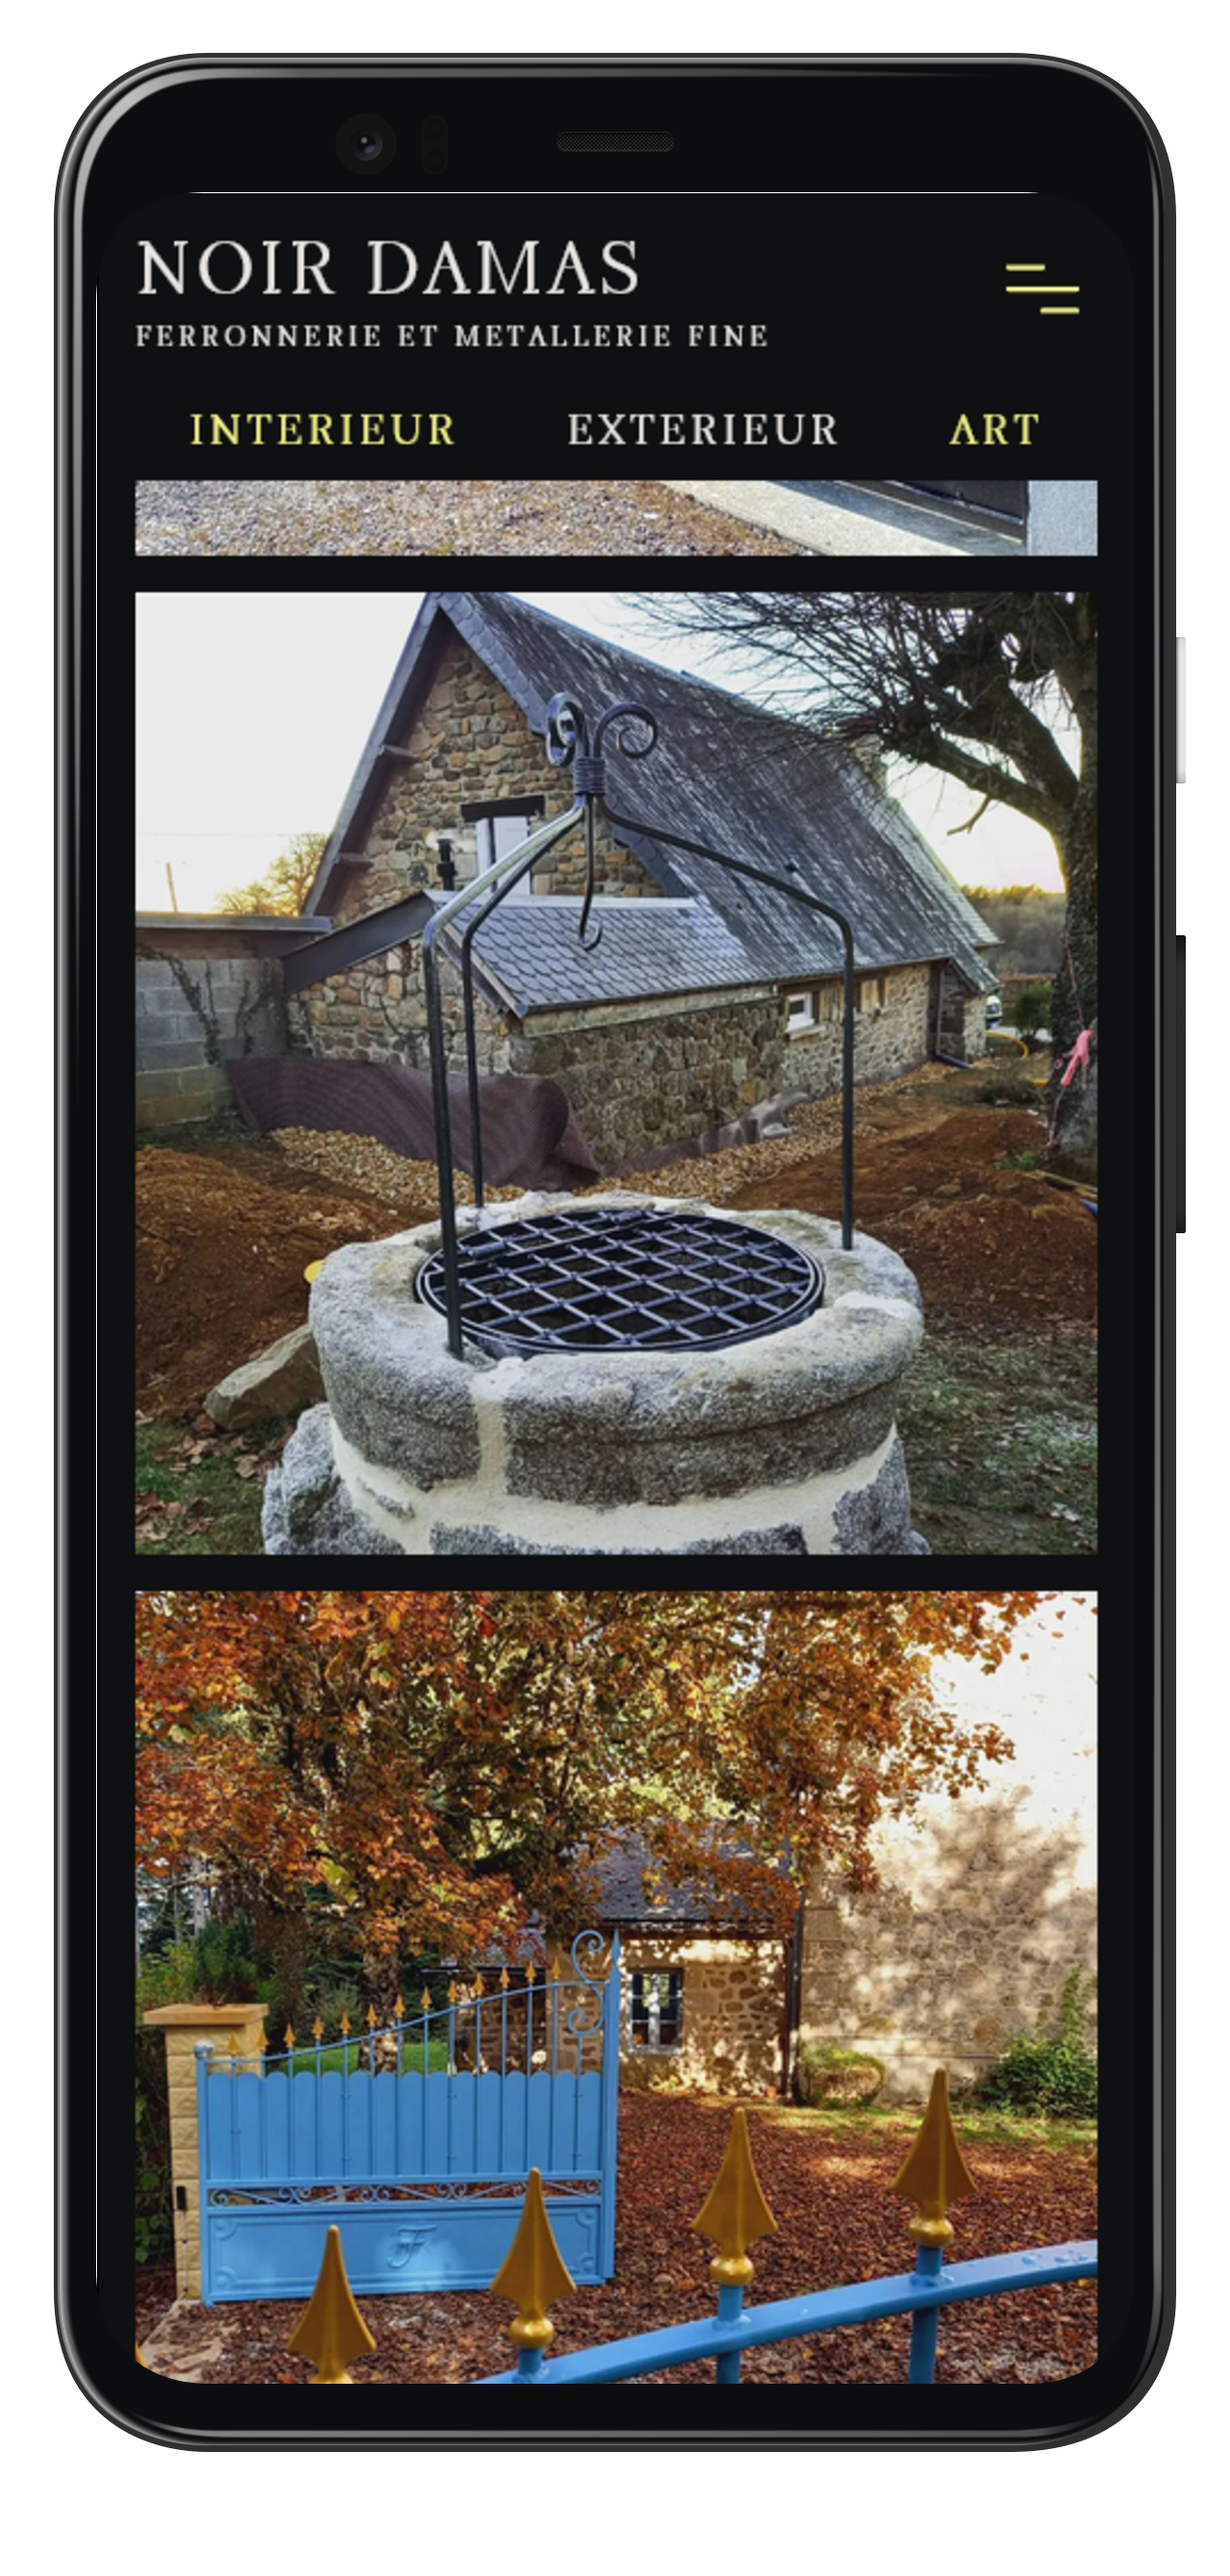
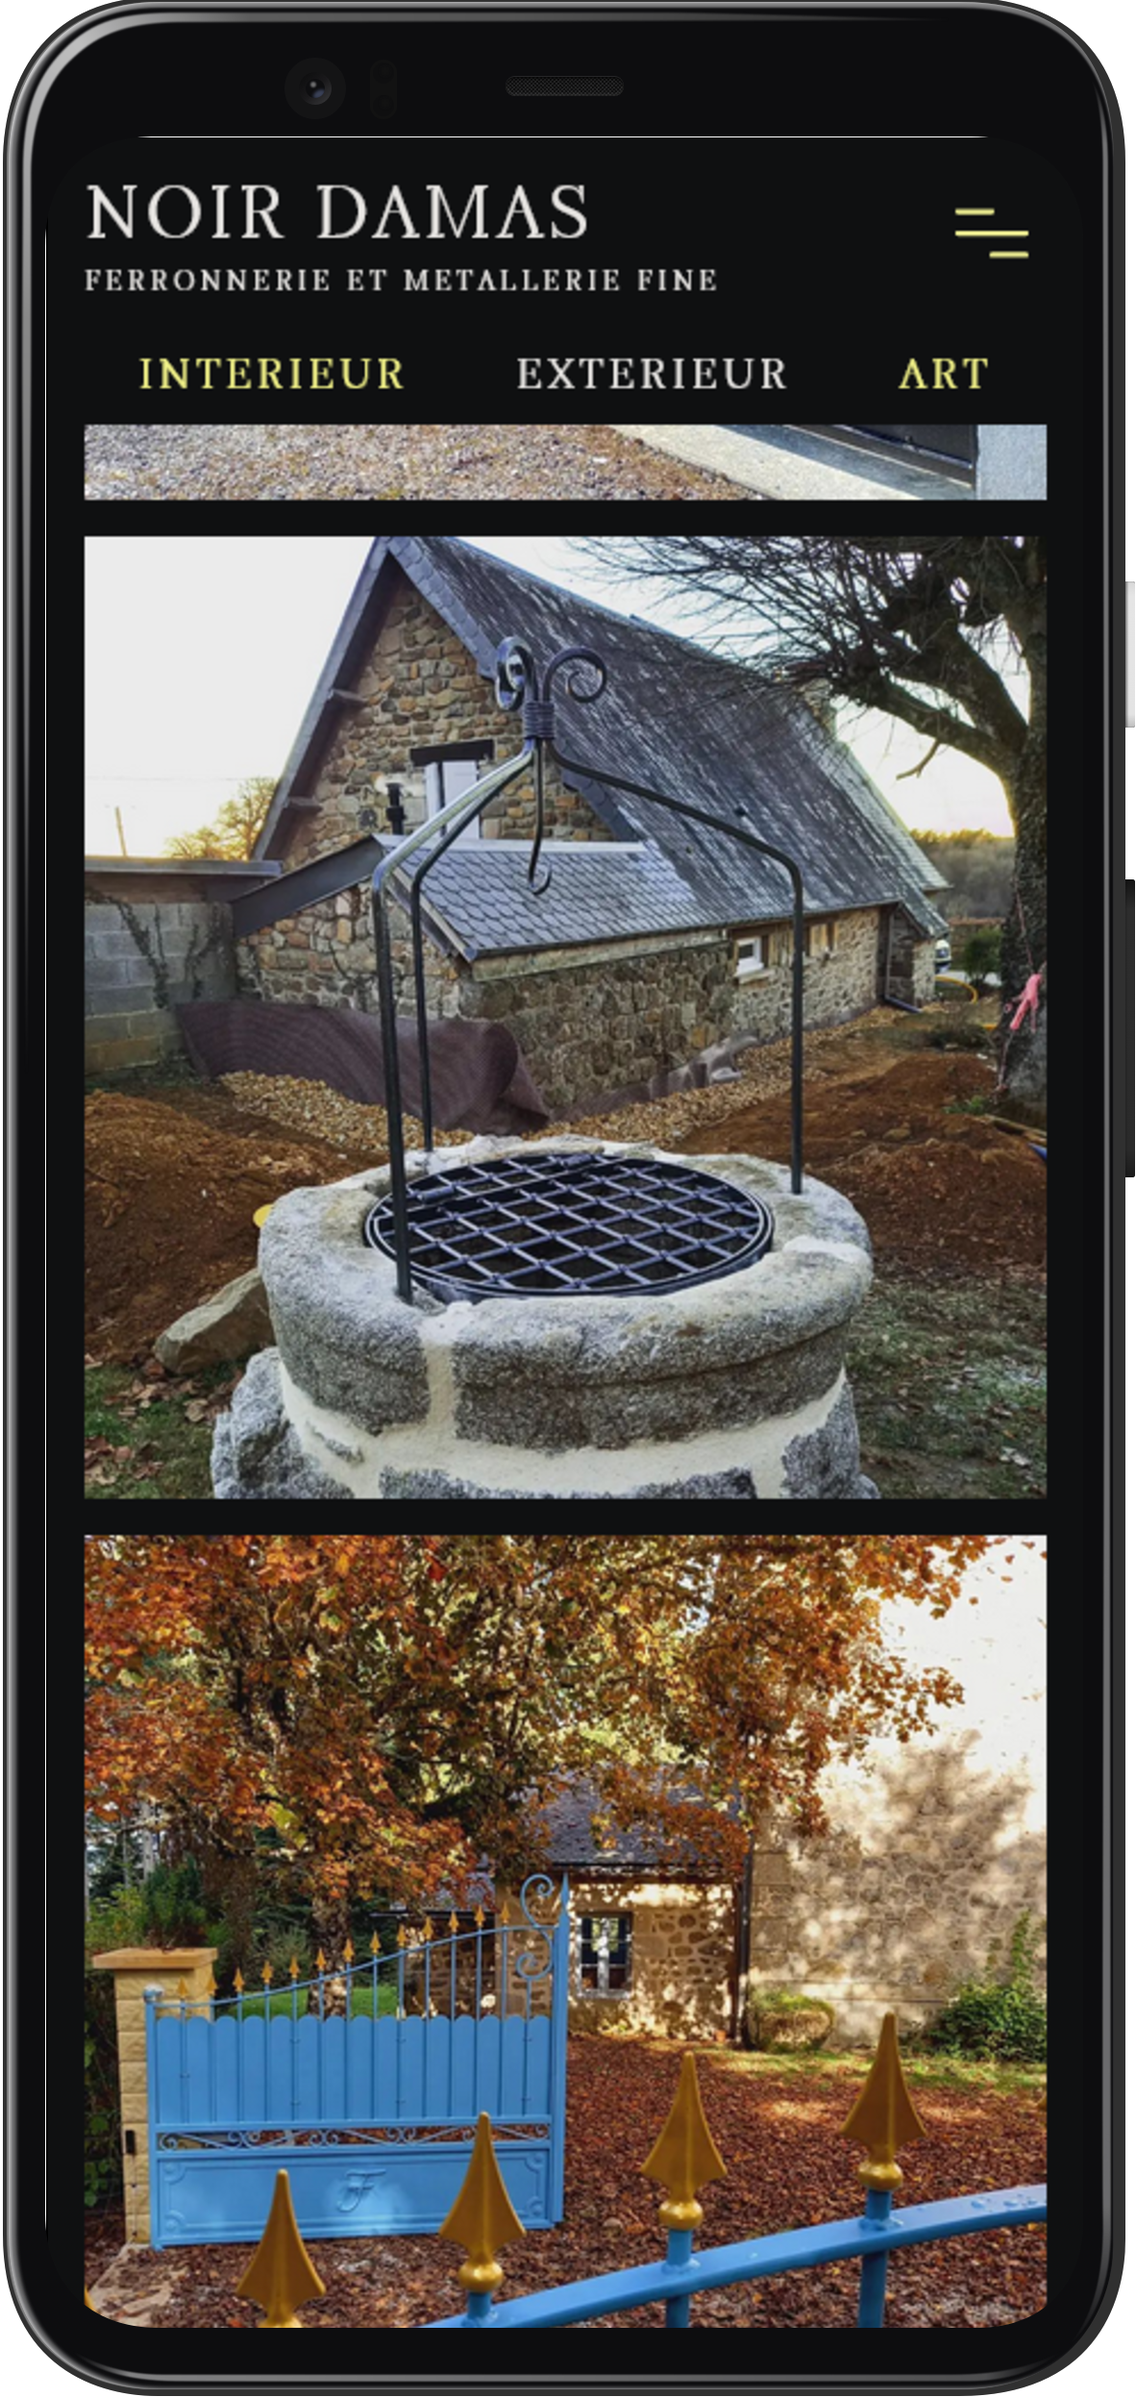
doing tablet and desktop responsive

diff --git a/src/styles/app.css b/src/styles/app.css
@@ -7,6 +7,10 @@
   box-sizing: border-box;
 }
 
+img {
+  display: block;
+}
+
 /* colors */
 
 :root {
@@ -30,6 +34,16 @@ body,
 .project--infos {
[1 lines of base64/hex data omitted]
   background-color: var(--light-gray);
+}
+
+/* pointer click */
+
+.clickable {
+  cursor: pointer;
+}
+
+span {
+  cursor: pointer;
 }
 
 /* scroll behavior */
@@ -57,53 +71,60 @@ body,
 body {
   font-family: "Europa", sans-serif;
   font-weight: 100;
-  font-size: 1rem;
+  font-size: clamp(1rem, 1.5vw, 2rem);
   color: var(--eerie-black);
   letter-spacing: -0.02em;
 }
 
 h1 {
-  font-size: clamp(4.7rem, 24vw, 8rem);
+  font-size: clamp(4.7rem, 22vw, 12.5rem);
   font-weight: 700;
   letter-spacing: -0.04em;
 }
 
 h2 {
-  font-size: clamp(2.75rem, 10vw, 4rem);
+  font-size: clamp(2.75rem, 11vw, 7.75rem);
   font-weight: 400;
   letter-spacing: -0.07em;
 }
 
 h3 {
-  font-size: clamp(1.8rem, 5vw, 2.5rem);
+  font-size: clamp(1.5rem, 6vw, 4rem);
   font-weight: 100;
   letter-spacing: -0.035em;
 }
 
 h4 {
   font-size: clamp(2rem, 11vw, 4rem);
-  font-weight: 400;
+  font-weight: 100;
   letter-spacing: -0.06em;
   text-transform: capitalize;
 }
 
 h5 {
-  font-size: clamp(1.5rem, 8vw, 2.5rem);
+  font-size: clamp(1.5rem, 3vw, 3rem);
   font-weight: 700;
   letter-spacing: -0.04em;
 }
 
 p {
-  line-height: 1.6rem;
+  line-height: 1.5;
 }
 
 a {
   text-decoration: none;
+  cursor: pointer;
+}
+
+@media (hover: hover) {
+  a:hover {
+    text-decoration: underline;
+  }
 }
 
 .continue--scroll--container a,
 .back--scroll--container a {
-  font-size: 1.125rem;
+  font-size: clamp(1.125rem, 4.5vw, 1.7rem);
   color: var(--eerie-black);
   font-weight: 700;
 }
@@ -114,18 +135,18 @@ a {
 }
 
 .navbar--section__item {
-  font-size: 1.7rem;
+  font-size: clamp(1.7rem, 6vw, 2.5rem);
   text-transform: uppercase;
 }
 
 .navbar--sublist__item {
-  font-size: 1.3rem;
+  font-size: clamp(1.3rem, 4.5vw, 1.7rem);
   text-transform: lowercase;
 }
 
 .navbar__display--text {
   color: var(--cultured);
-  font-size: 1.05rem;
+  font-size: clamp(1.05rem, 4vw, 1.5rem);
 }
 /* Layout */
 
@@ -138,7 +159,7 @@ a {
 section {
   display: flex;
   flex-direction: column;
-  padding: 20px;
+  padding: 1.25em;
   /* border: 1px solid red; */
   min-height: 100dvh;
 }
@@ -147,5 +168,5 @@ section {
   display: flex;
   flex-direction: column;
 
-  gap: 1rem;
+  gap: clamp(1rem, 1.5vw, 2rem);
 }

diff --git a/src/styles/navbar.css b/src/styles/navbar.css
@@ -13,21 +13,20 @@
 }
 
 .navbar__top,
-.navbar__display,
-.navbar__actions {
+.navbar__display {
   background-color: var(--davys-grey);
   border-radius: 10px;
   padding: 0.5em 0.75em;
 }
 
 .navbar__top {
+  min-width: 30vw;
   text-align: right;
   flex: 1;
 }
 
 .navbar__bottom {
   display: flex;
-  justify-content: space-between;
   gap: 0.5em;
 }
 
@@ -49,26 +48,17 @@
 /* expanded sublists */
 
 .expanded {
-  max-height: 90px;
+  max-height: 110px;
   transition: all 0.3s ease-in-out;
 }
 
-.navbar__display,
-.navbar__actions {
+.navbar__display {
   display: flex;
   justify-content: space-between;
   align-items: center;
-}
-
-.navbar__display {
   width: 100%;
   white-space: nowrap;
   gap: 0.5em;
-}
-
-.navbar__actions {
-  background-color: var(--cultured);
-  gap: 0.8em;
 }
 
 ul {
@@ -99,6 +89,5 @@ li span {
 /* opened navbar */
 
 .navbar--opened {
-  width: 90%;
   background-color: rgba(20, 19, 23, 0.5);
 }

diff --git a/src/components/ActionButton.jsx b/src/components/ActionButton.jsx
@@ -1,5 +1,5 @@
 import React, { useContext } from "react";
-import "../styles/navbar.css";
+import "../styles/actionButton.css";
 import { ProjectContext } from "../hooks/context";
 
 const ActionButton = ({ activeSection, navIsOpen, project }) => {
@@ -15,6 +15,7 @@ const ActionButton = ({ activeSection, navIsOpen, project }) => {
       <div className="navbar__actions">
         {isInfoOpen[activeSection] && (
           <img
+            className="clickable"
             src="src/assets/images/close.svg"
             alt="close_svg"
             onClick={() => toggle("info", activeSection)}
@@ -23,6 +24,7 @@ const ActionButton = ({ activeSection, navIsOpen, project }) => {
         {!isInfoOpen[activeSection] && (
           <>
             <img
+              className="clickable"
               src="src/assets/images/infos.svg"
               alt="infos_svg"
               onClick={() => toggle("info", activeSection)}

diff --git a/src/App.jsx b/src/App.jsx
@@ -1,4 +1,5 @@
-import React, { useEffect, useState } from "react";
+import React, { useEffect, useState, useContext } from "react";
+import { ProjectContext } from "./hooks/context";
 
 import Home from "./components/Home";
 import About from "./components/About";
@@ -12,9 +13,11 @@ import { projectsData } from "./assets/projects";
 
 const App = () => {
   const [activeSection, setActiveSection] = useState("home");
+  const { toggle, isNavOpen } = useContext(ProjectContext);
 
   const handleClick = (id) => {
     setActiveSection(id);
+    isNavOpen && toggle("nav");
     const sectionEl = document.getElementById(id);
     sectionEl.scrollIntoView({ behavior: "smooth" });
   };

diff --git a/src/components/Navbar.jsx b/src/components/Navbar.jsx
@@ -113,7 +113,10 @@ const Navbar = ({ activeSection, setActiveSection }) => {
 
       <div className="navbar__bottom">
         {!isInfoOpen[activeSection] && (
-          <div className="navbar__display" onClick={() => toggle("nav")}>
+          <div
+            className="navbar__display clickable"
+            onClick={() => toggle("nav")}
+          >
             <span className="navbar__display--text">{activeSection}</span>
             <img src="src/assets/images/menu.svg" alt="menu_svg" />
           </div>

diff --git a/src/components/Project.jsx b/src/components/Project.jsx
@@ -10,10 +10,11 @@ const Project = ({
   const [src, setSrc] = useState(thumbnail.mobile);
 
   const handleResize = () => {
-    window.innerWidth > 768
-      ? setSrc(thumbnail.tablet)
-      : window.innerWidth > 1024
+    // handle the image size depending on the screen size
+    window.innerWidth > 1000
       ? setSrc(thumbnail.desktop)
+      : window.innerWidth > 700
+      ? setSrc(thumbnail.tablet)
       : setSrc(thumbnail.mobile);
   };
 

diff --git a/src/styles/actionButton.css b/src/styles/actionButton.css
@@ -1,0 +1,14 @@
+.navbar__actions {
+  background-color: var(--cultured);
+  gap: 0.8em;
+  border-radius: 10px;
+  padding: 0.5em 0.75em;
+  display: flex;
+
+  align-items: center;
+}
+
+.navbar__actions img {
+  width: clamp(1.4rem, 1vw, 2rem);
+  aspect-ratio: 1/1;
+}

diff --git a/src/styles/home.css b/src/styles/home.css
@@ -1,10 +1,11 @@
 .home--section {
-  /* height: 100dvh; */
   justify-content: flex-end;
+  align-items: center;
 }
 
 .central--text {
   width: 100%;
+  max-width: 1000px;
   text-align: center;
   flex: 1;
   display: flex;

diff --git a/src/styles/project.css b/src/styles/project.css
@@ -9,6 +9,7 @@
 
 .project h4 {
   margin-bottom: 1rem;
+  align-self: start;
 }
 
 .project img {
